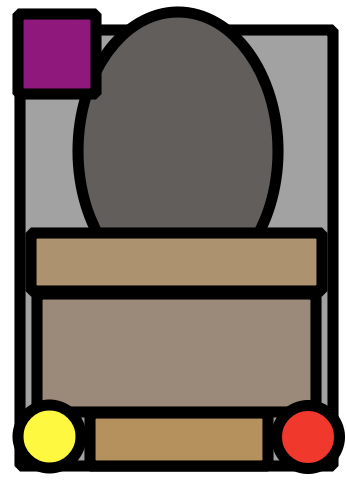
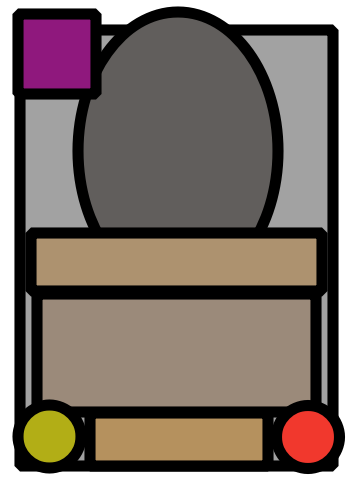
white text, black outline

Changed region(s): [[0.0578, 0.842, 0.2312, 0.9667]]

diff --git a/server/generate/generatePhImage.js b/server/generate/generatePhImage.js
@@ -4,6 +4,21 @@ const fs = require('fs');
 // Load a custom font
 // registerFont('path/to/your/font.ttf', { family: 'YourFontName' });
 
+function drawNumber(ctx, number, x, y){
+    ctx.strokeStyle = 'black'; // Set outline color
+    ctx.lineWidth = 5; // Set outline thickness
+    ctx.fillStyle = 'white'; // Set fill color
+    ctx.font = '35px Sans';
+    ctx.textAlign = 'center';
+
+    // Draw black outline
+    ctx.strokeText(number, x, y);
+
+    // Draw white fill
+    ctx.fillText(number, x, y);
+
+}
+
 async function generateHearthstoneCard(cardData) {
     const canvas = createCanvas(400, 560);
     const ctx = canvas.getContext('2d');
@@ -12,10 +27,21 @@ async function generateHearthstoneCard(cardData) {
     const template = await loadImage("./generate/placeholder minion.png");
     ctx.drawImage(template, 0, 0, canvas.width, canvas.height);
 
-    // Draw tavern tier
-    ctx.fillStyle = 'black';
-    ctx.font = '24px Sans';
-    ctx.fillText(`${cardData.tier}`, 60, 75);
+    // tier
+    drawNumber(ctx, cardData.tier, 65, 75);
+
+    // attack
+    drawNumber(ctx, cardData.attack, 58, 520);
+    // ctx.fillStyle = 'black';
+    // ctx.font = '24px Sans';
+    // ctx.fillText(`${cardData.attack}`, 55, 520);
+
+    // health
+    drawNumber(ctx, cardData.health, 358, 520);
+    // ctx.fillStyle = 'black';
+    // ctx.font = '24px Sans';
+    // ctx.fillText(`${cardData.health}`, 355, 520);
+
 
     // Draw card name
     ctx.fillStyle = 'black';
@@ -27,10 +53,7 @@ async function generateHearthstoneCard(cardData) {
     ctx.fillStyle = 'black';
     ctx.font = '20px Sans';
     ctx.textAlign = 'center';
-    // const lines = cardData.text.match(/.{1,28}/g); // Split text into lines
-    // lines.forEach((line, index) => {
-    //     ctx.fillText(line, canvas.width / 2, 370 + index * 25);
-    // });
+    
 
     const maxWidth = 300; // Maximum width for text on the card
     let words = cardData.text.split(' ');
@@ -57,15 +80,7 @@ async function generateHearthstoneCard(cardData) {
         ctx.fillText(line, canvas.width / 2, startY + index * lineHeight);
     });
 
-    // Draw attack
-    ctx.fillStyle = 'black';
-    ctx.font = '24px Sans';
-    ctx.fillText(`${cardData.attack}`, 55, 520);
-
-    // Draw health
-    ctx.fillStyle = 'black';
-    ctx.font = '24px Sans';
-    ctx.fillText(`${cardData.health}`, 355, 520);
+    
     
     // Save the image to a file
     const buffer = canvas.toBuffer('image/png');
@@ -74,11 +89,11 @@ async function generateHearthstoneCard(cardData) {
 
 // Example card data
 const cardData = {
-    name: 'Placeholder Card',
-    tier: 5,
-    text: 'This is a placeholder card for Hearthstone. Lorem ipsum dolor sit amet, consectetur adipiscing elit.',
-    attack: 1,
-    health: 6,
+    name: 'Mantid Queen',
+    tier: 6,
+    text: 'Venomous. Start of Combat: For each of your minion types gain +5/+5, Windfury, Reborn, or Taunt.',
+    attack: 5,
+    health: 5,
     races: ["murloc", "quilboar"]
 };
 
